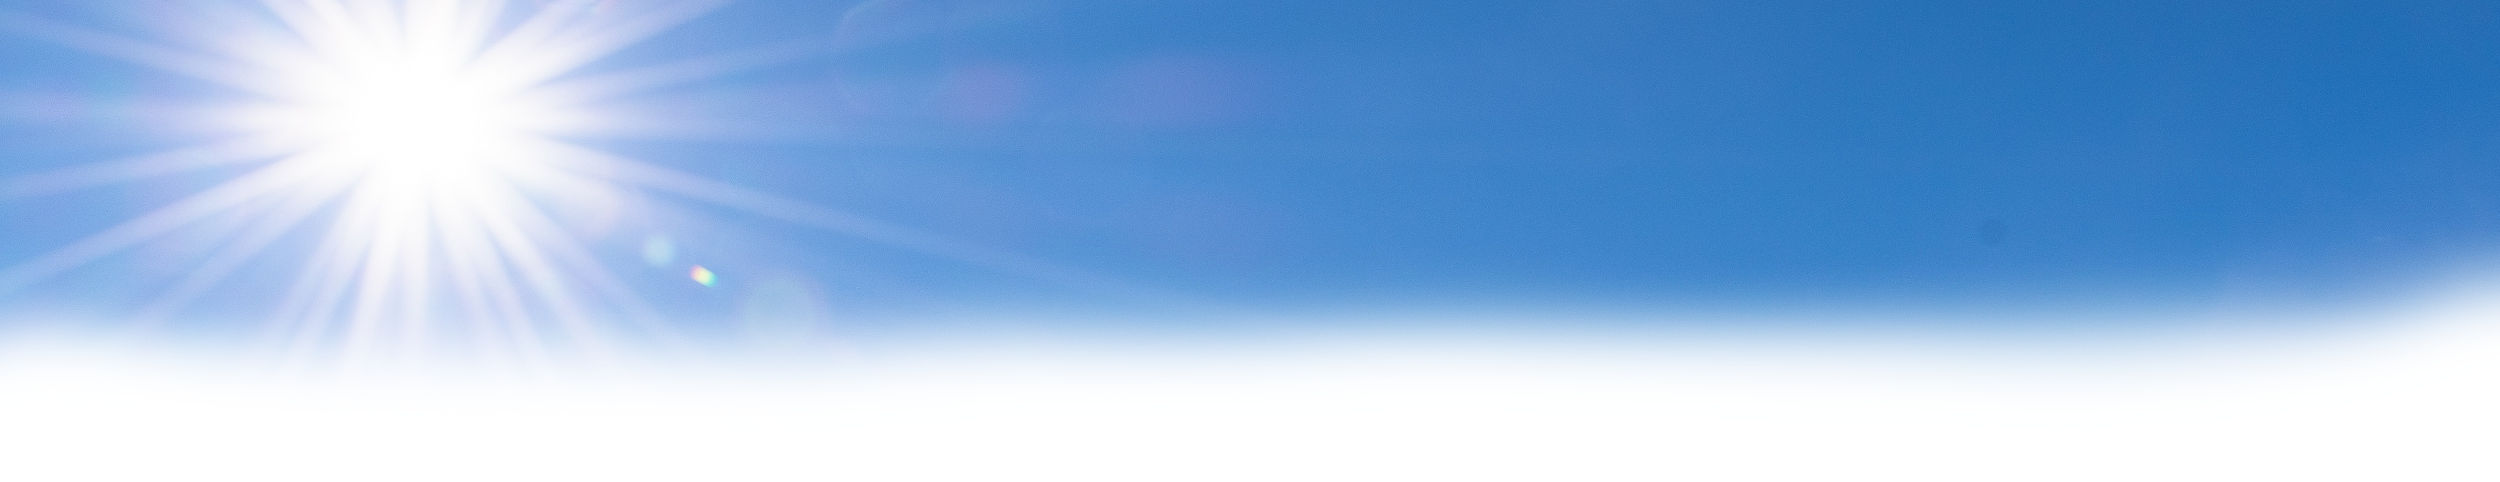
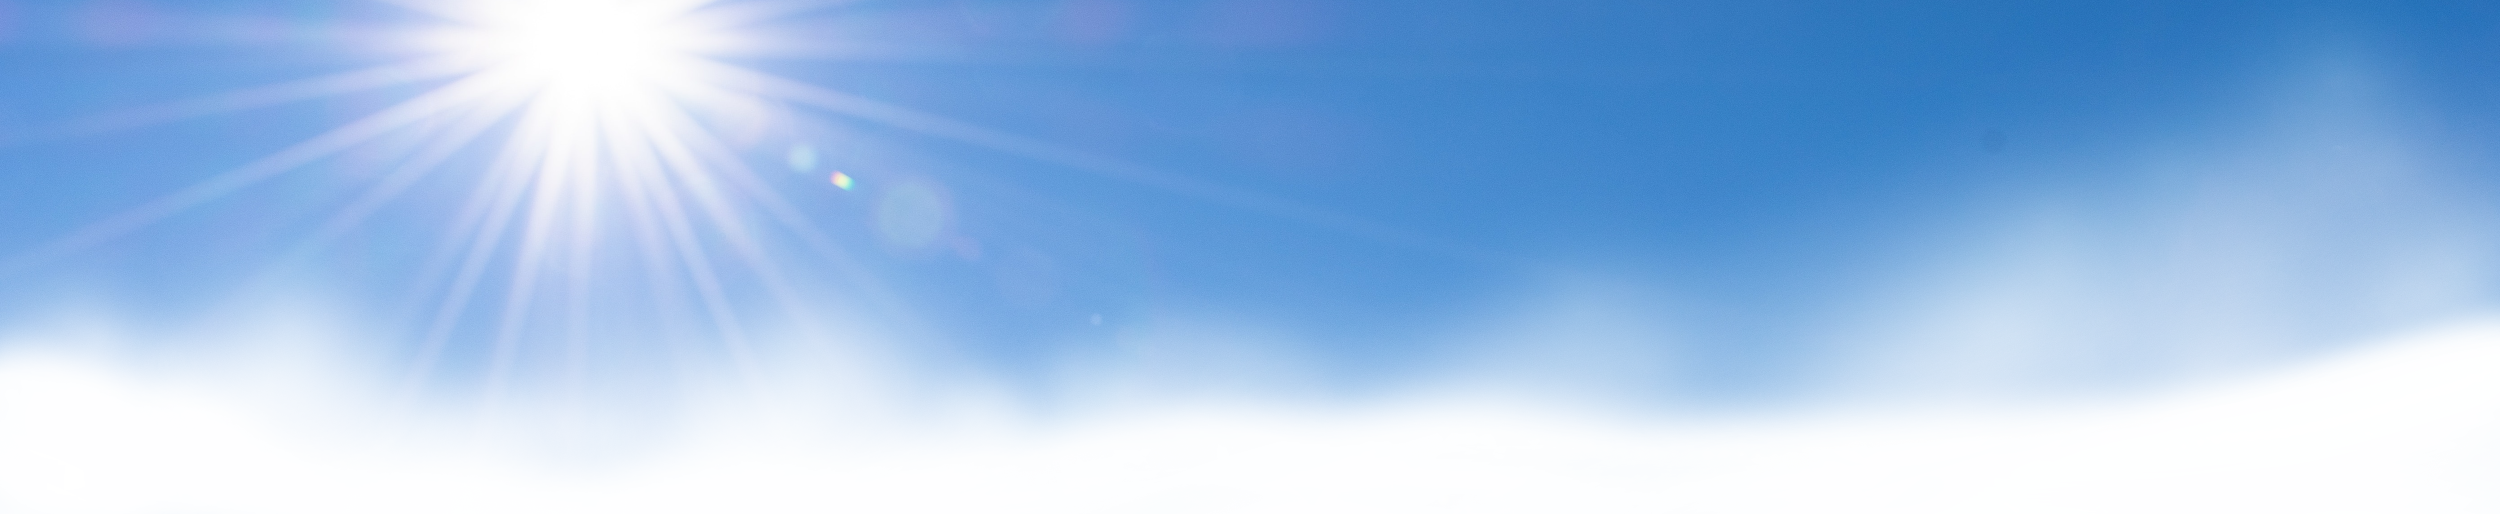
updated script and styling

diff --git a/index.html b/index.html
@@ -12,7 +12,7 @@
     <!-- Google Fonts-->
     <link rel="preconnect" href="https://fonts.gstatic.com">
     <link rel="preconnect" href="https://fonts.gstatic.com">
-    <link href="https://fonts.googleapis.com/css2?family=Jaldi&family=Philosopher&display=swap" rel="stylesheet">
+    <link href="https://fonts.googleapis.com/css2?family=Jaldi&family=Philosopher&family=Comfortaa:wght@300&family=Montserrat+Alternates:wght@300&family=Syne&family=Noto+Serif+TC:wght@300&display=swap" rel="stylesheet">
     <!--Customized CSS-->
     <link rel="stylesheet" href="style.css">
 </head>
@@ -31,8 +31,8 @@
 
             <div class="frontPage col s12 m12 l12">
 
-                <section>
-                    <p>Search for a day in history, find out the weather</p>
+                <section class="instructions">
+                    <p>Search for a day that means a lot to you</p>
                     <div class="divider"></div>
                 </section><br>
                 <div class="row">
@@ -52,11 +52,10 @@
                             <option value="11">November</option>
                             <option value="12">December</option>
                         </select>
-                        <label>Select Month</label><br>
-                        <span class="monthResult"><h3>Result</h1></span>
+                        <label>Select Month</label>
                     </div>
                     <div class="dayBox input-field col s12 m4 l4">
-                        <select>
+                        <select id="dayInput">
                         <option value="" disabled selected>Day</option>
                         <option value="01">01</option>
                         <option value="02">02</option>
@@ -93,54 +92,22 @@
                         <label>Select Day</label>
                     </div>
                     <div class="yearBox input-field col s12 m4 l4">
-                        <input placeholder="Year" class="yearInput" id="year-input" type="text">
-                        <label for="year-input">Type Year</label><br>
+                        <input type="text" value="" id="yearInput" placeholder="Enter Year">
+                        <br>
                         <p style="font-style: italic; font-size: 14px; margin-top: -10px;">Regrettably, our memory only goes back
                         to 1970</p>
                     </div><br>
 
 
                 </div>
-                <div class="row">
-                    <div class="hourBox input-field col s12 m4 l4">
-                        <select>
-                            <option value="" disabled selected>Hour</option>
-                            <option value="01">01am</option>
-                            <option value="02">02am</option>
-                            <option value="03">03am</option>
-                            <option value="04">04am</option>
-                            <option value="05">05am</option>
-                            <option value="06">06am</option>
-                            <option value="07">07am</option>
-                            <option value="08">08am</option>
-                            <option value="09">09am</option>
-                            <option value="10">10am</option>
-                            <option value="11">11am</option>
-                            <option value="12">12pm</option>
-                            <option value="13">1pm</option>
-                            <option value="14">2pm</option>
-                            <option value="15">3pm</option>
-                            <option value="16">4pm</option>
-                            <option value="17">5pm</option>
-                            <option value="18">6pm</option>
-                            <option value="19">7pm</option>
-                            <option value="20">8pm</option>
-                            <option value="21">9pm</option>
-                            <option value="22">10pm</option>
-                            <option value="23">11pm</option>
-                            <option value="00">12am</option>
-                        </select>
-                        <label>Select Hour</label>
-                    </div>
                 
-                </div>
                 <div class="row">
                     <div class="cityBox input-field col s12 m4 l4">
-                        <input placeholder="City" class="cityInput" id="city-input" type="text">
+                        <input placeholder="City" id="cityInput" type="text">
                         <label for="city-input">Enter City</label>
                     </div>
                     <div class="stateBox input-field col s12 m4 l4">
-                        <input placeholder="State" class="stateInput" id="state-input" type="text">
+                        <input placeholder="State" id="stateInput" type="text">
                         <label for="state-input">Enter State</label><br>
                     </div>
                 </div>
@@ -148,12 +115,24 @@
             
 
             </div>
+        </div>
 
-            <div class="resultPage hideContent col s12 m12 l12">
-                <h1 id="city-name">blank</h1>
-                <h2 id="current-temp">blank</h2>
+        <div class="resultsPage row">
 
+            <div class="customPage col s12 m6 l6">
+                <p class="resultsDisplay">The weather in <span id="cityName" style="color: #1c3139;"></span>, <span id="stateName"></span> on <span id="monthDisplay"></span>-<span id="dayDisplay"></span>-<span id="yearDisplay"></span> was:<br>
+                <span id="tempDisplay"></span>°f<br>
+                It was <span id="conditionsDisplay"></span> out, how nostalgic!<br>
+                </p>
+                
+                <br><button class="homeBtn">Search another date?</button><br>
             </div>
+
+            <div class="billboardAPI col s12 m6 l6">
+                <p class="billboardResults">You may have heard
+                <span class="songResult"></span> on the radio, it was the top hit on the Billboard charts on this day!</p>
+            </div>
+            
         </div>
 
     </div>

diff --git a/script.js b/script.js
@@ -1,68 +1,115 @@
-function selectValue(){
-  var value = $("#monthInput").val();
-  $(".monthResult").text(value);
-  return value
-};  
-  
+$(document).ready(function() {
+  $(".resultsPage").hide();
+
   $('select').formSelect();
-
-  var cityInput = "Fredericksburg";
-  var stateInput = "VA";
-  var yearInput = "1985";
-  var monthInput = $("#monthInput").on("change", selectValue);
-  var mTest = parseInt($("#monthInput").val(), 10);
-  var dayInput = "13";
-  //var hourInput = "09";
-  //var minuteInput = "25";
-
-  //$("#monthInput").on("change",function(){
-    //Getting Value
-    //var monthInput = $("#monthInput").val();
-    //$(".monthResult").text(monthInput);
-  //});
-
+  
+  function GetInputValue(field){
+    var sel = document.getElementById(field)
+    return sel.options[sel.selectedIndex].value
+  }
 
   function performSearch(event) {
     event.preventDefault();
-    
-    //var apiKey = "G9CVLC87MQTZ38PJ3ZJZCWRZJ";
 
-    var queryURL = "https://weather.visualcrossing.com/VisualCrossingWebServices/rest/services/timeline/"+cityInput+"%2C%20"+stateInput+"%2C%20US/"+yearInput+"-"+monthInput+"-"+dayInput+"/"+yearInput+"-"+monthInput+"-"+dayInput+"?unitGroup=us&key=G9CVLC87MQTZ38PJ3ZJZCWRZJ&include=obs%2Cfcst"
+    monthValue=GetInputValue('monthInput');
+    dayInput = GetInputValue('dayInput');
+    var yearInput = $("#yearInput").val();
+    var cityInput = $("#cityInput").val();
+    var stateInput = $("#stateInput").val();
+   
+    var apiKey = "G9CVLC87MQTZ38PJ3ZJZCWRZJ";
 
-    //var queryURL = "https://weather.visualcrossing.com/VisualCrossingWebServices/rest/services/timeline/"+cityInput+"%2C%20"+stateInput+"%2C%20US/"+yearInput+"-"+monthInput+"-"+dayInput+"/"+yearInput+"-"+monthInput+"-"+dayInput+"?unitGroup=us&key=G9CVLC87MQTZ38PJ3ZJZCWRZJ&include=obs%2Cfcst"
+    var queryURL = "https://weather.visualcrossing.com/VisualCrossingWebServices/rest/services/timeline/"+cityInput+"%2C%20"+stateInput+"%2C%20US/"+yearInput+"-"+monthValue+"-"+dayInput+"/"+yearInput+"-"+monthValue+"-"+dayInput+"?unitGroup=us&key="+apiKey+"&include=obs%2Cfcst%2Cstats%2Calerts"
 
-    
-    //"https://weather.visualcrossing.com/VisualCrossingWebServices/rest/services/weatherdata/history?&aggregateHours=24&startDateTime="+yearInput+"-"+monthInput+"-"+dayInput+"T"+hourInput+":"+minuteInput+":00&endDateTime="+yearInput+"-"+monthInput+"-"+dayInput+"T"+hourInput+":"+minuteInput+":00&unitGroup=us&contentType=json&dayStartTime=0:0:00&dayEndTime=0:0:00&location="+cityInput+","+stateInput+",US&key=G9CVLC87MQTZ38PJ3ZJZCWRZJ"
-    console.log(monthInput);
-    
   
     $.ajax({
       url: queryURL,
       method: "GET",
     }).then(function (response) {
-      //var weatherCon = response.locations[cityInput+","+stateInput+",US"].values[0].conditions;
+      var conditions = response.days[0].conditions;
+      var precip = response.days[0].precip;
+      var temp = response.days[0].temp;
+      var snowdepth = response.days[0].snowdepth;
+      var address = response.days[0].address;
+      var cloudcover = response.days[0].cloudcover;
       console.log(response);
-      //console.log(weatherCon);
+      $("#conditionsDisplay").text(conditions);
+      $("#tempDisplay").text(temp);
       
+      if (conditions = "Clear") {
+        $(".headerImage").attr("src", "assets/images/clearDayBg.png")
+        $("body").css("background-color","#639edc");
+        $(".nameText").css("color", "#efefef");
+        $(".descText").css("color", "#efefef");
+      }
+      if (conditions = "Partially cloudy") {
+        $(".headerImage").attr("src", "assets/images/partlyCloudyDayBg.png")
+        $("body").css("background-color","#4e91ab");
+        $(".nameText").css("color", "#0f394a");
+        $(".descText").css("color", "#0f394a");
+      }
+
       
-      
+
     });
 
-    
+    $("#cityName").text(cityInput);
+    $("#stateName").text(stateInput);
+    $("#monthDisplay").text(monthValue);
+    $("#dayDisplay").text(dayInput);
+    $("#yearDisplay").text(yearInput);
 
-    // var apiKey  = "gs7YZMi9EDZOcxQZ3oiMyOokV9g4S74u4MiKtOI9";
-    // var queryURL ="https://api.nasa.gov/planetary/apod?api_key="+apiKey;
-    // $.ajax({
-    //   url: queryURL,
-    //   method: "GET",
-    // }).then(function (response) {
-    //   console.log(response);
-      
-    // });
+    
+    
   };
 
+  
 
   //Call the function
   $(".submitBtn").click(performSearch);
+
+  //Button Event Listeners - Toggles between Search and Results Page
+  $(".submitBtn").click(function() {
+    $(".frontPage").fadeOut(400, function () {
+            $('.resultsPage').fadeIn();
+        });
+
+        // var year = $("#yearInput").val();
+        // var month = GetInputValue('monthInput');
+        // var day = GetInputValue('dayInput');
+        
+        // var topSong = {
+        //   "async": true,
+        //   "crossDomain": true,
+        //   "url": "https://billboard-api2.p.rapidapi.com/hot-100?date="+year+"-"+month+"-"+day+"&range=1-10",
+        //   "method": "GET",
+        //   "headers": {
+        //     "x-rapidapi-key": "1aed5862e1mshd7e0b92aad20dadp15dcf4jsn5123a112cbee",
+        //     "x-rapidapi-host": "billboard-api2.p.rapidapi.com"
+        //   }
+        // };
+        
+        // $.ajax(topSong).done(function (response) {
+        //   console.log(response.content[1].artist);
+        //   var songNumberOne = response.content[1].title;
+        //   var artistNumberOne = response.content[1].artist;
+  
+        //   $(".songResult").text(artistNumberOne)
+        // });
+  });
+
+  $(".homeBtn").click(function() {
+    $(".resultsPage").fadeOut(400, function () {
+      $('.frontPage').fadeIn()
+        $(".headerImage").attr("src", "assets/images/landingBg.png")
+        $("body").css("background-color","#322634");
+        $(".nameText").css("color", "#d38e7e");
+        $(".descText").css("color", "#81656d");
+      
+  });
+  
+});
+
+});
 
 

diff --git a/style.css b/style.css
@@ -8,11 +8,10 @@ body {
     display: block;
     width: 100%;
     height: auto;
-    
 }
 
 .headerText {
-    margin-top: -85px;
+    margin-top: -55px;
 }
 
 .nameText {
@@ -21,7 +20,6 @@ body {
     color: #d38e7e;
     font-size: 6.5vh;
     margin: 0;
-    
 }
 
 .descText {
@@ -33,9 +31,51 @@ body {
     color: #81656d;
 }
 
+.instructions {
+    font-family: 'Comfortaa', cursive;
+    font-size: 30px;
+    text-align: center;
+    color: #322634;
+}
+
+.divider {
+    background-color: #605e61;
+    margin-top: -20px;
+}
+
+.row {
+    margin-bottom: 5px;
+}
+
+
 .mainContent {
     background-color: rgb(255,255,255,0.4);
     border-radius: 12px;
+}
+
+.customPage {
+    border-right: 1px solid black;
+}
+
+.resultsDisplay {
+    font-family: 'Noto Serif TC', serif;
+    font-size: 17px;
+    
+}
+
+#cityName {
+    color: #1c3139;
+}
+
+.billboardResults {
+    text-align: right;
+    font-size: 20px;
+    font-family: 'Montserrat Alternates', sans-serif;
+}
+
+button, input, select, label {
+    font-family: 'Jaldi', sans-serif;
+    font-size: 20px;
 }
 
 .hideContent {
